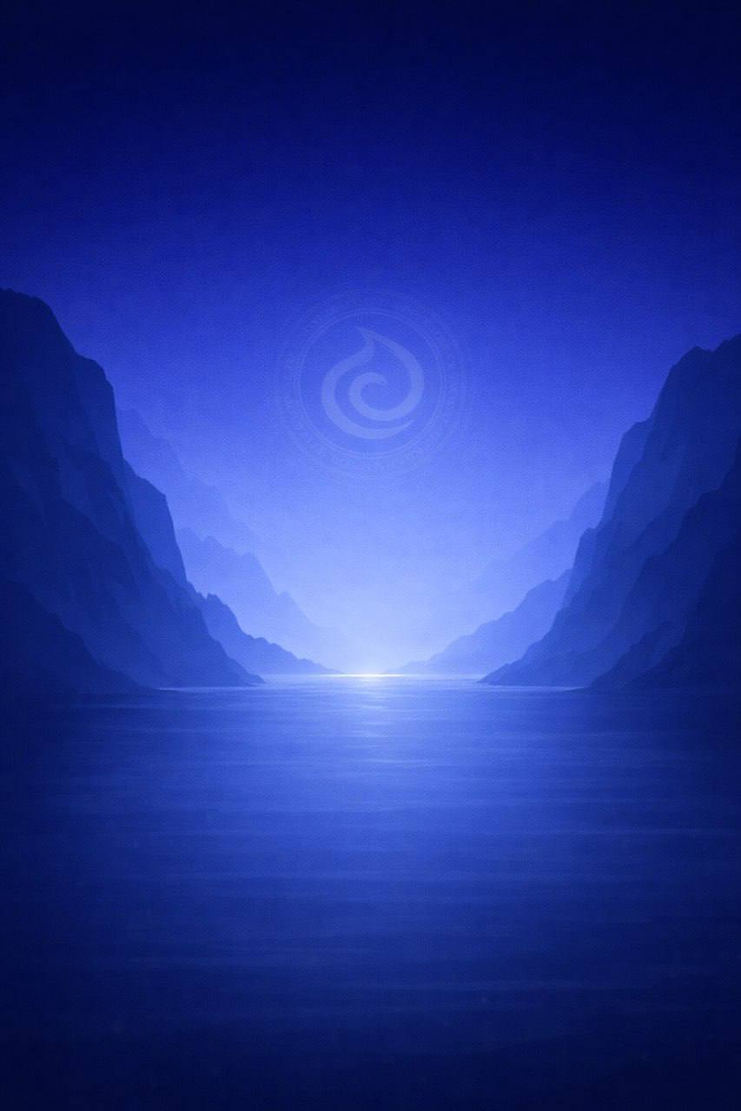
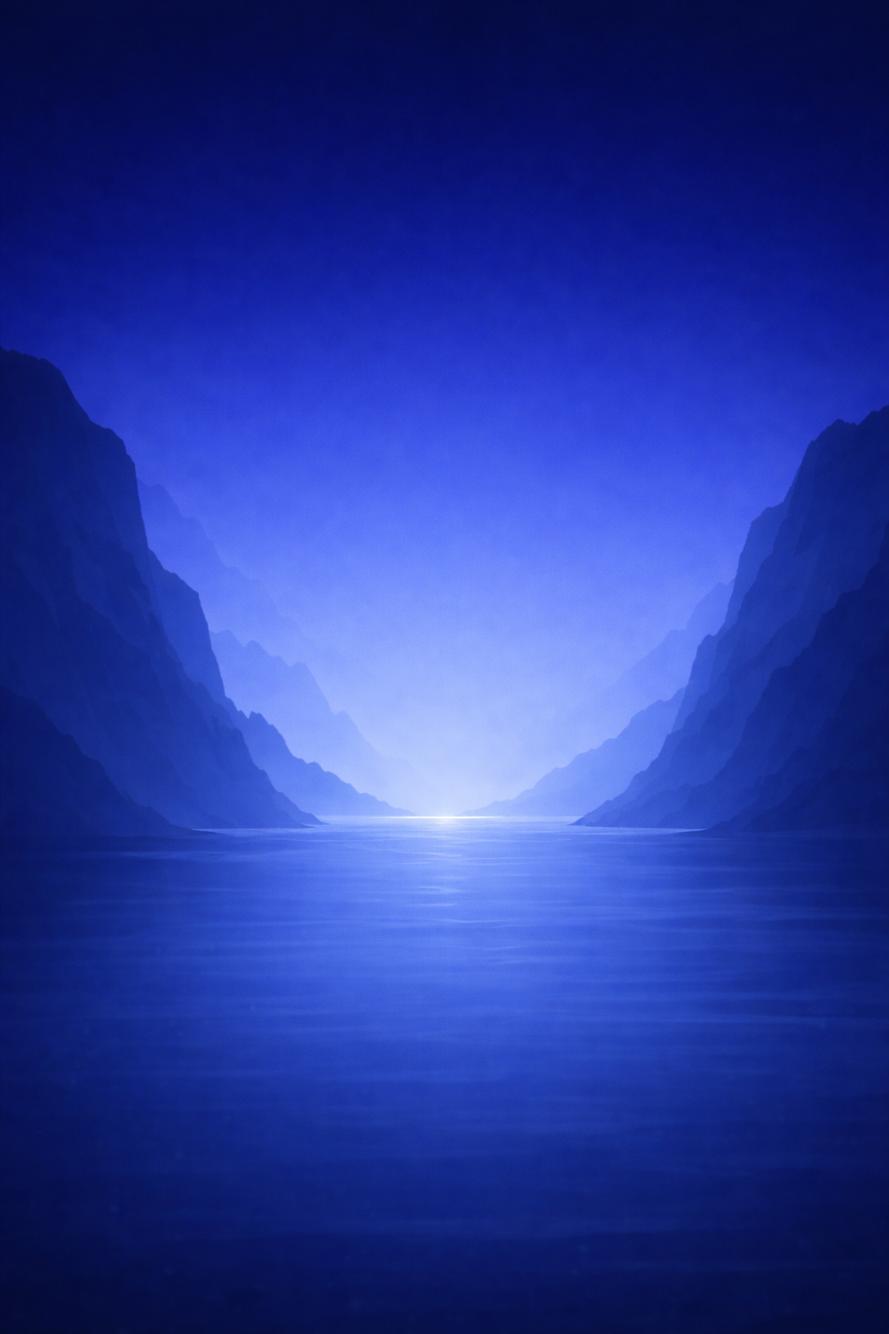
test

diff --git a/bundle.js b/bundle.js
@@ -212,7 +212,7 @@ and a big time boost.`,illustrationHtml:aa,onEnter:e=>ca(e)}];function jo(e={}){
           <span class="count max-cascade">${at.maxCascade>0?"max \xD7"+at.maxCascade:""}</span>
         </div>
         ${x}
-      `;Os.innerHTML=$}}function os(){se.textContent=`Score: ${Mt}`}function Hs(){qt.textContent=`Time: ${Pn(F)}`}function ro(){let t=Math.max(0,(s-y)/u()),i=Math.floor(t/60),g=Math.floor(t%60);Zt.textContent=`Left: ${i}:${g.toString().padStart(2,"0")}`,t<30?Zt.classList.add("warning"):Zt.classList.remove("warning")}function Ii(){h(fe),Un(),y=0,v=0,E=_=0,w=0,mt.start(),at=mt.stats,Mt=0,k=performance.now(),F=0,ie=0,it=0,j="playing",D=null,He()?M.reset():(M.deactivate(),Object.keys(M.charges).forEach(t=>{M.charges[t]=0}),Y()),ye.reset(),hs(),yn=[],Fn=[],ln=!1,Sn=!1,Hn=!1,tn=0,dn=0,un=0,vn.reset(),Y(),os(),Hs(),ro(),Ds(),uo(),Gn.drawNextPreview(re,D),ss(),T.getSettings().musicEnabled&&T.startGameMusic()}function Fs(){mt.gameOver(),j="gameover",Ut=null,Ae=!1,Ye=0,nn=0;let t=wt.saveHighscore(Mt,F,fe);T.stopMusic(),T.play("gameover"),Hs(),ss(),t&&Mt>0&&setTimeout(()=>{J("\u{1F3C6} NEW RECORD!","score")},500)}function wi(t){for(let g=0;g<50;g++){let x=t.map(()=>1+(Math.random()*4|0));if(!Pi(t,x))return x}return t.map((g,x)=>1+x%4)}let Pi=ui;function lo(t){let i=t.cells.map(x=>({x:x.x,y:x.y})),g=wi(i);return{name:t.name,cells:i,colors:g}}function uo(){if(!D){let $=je[Math.random()*je.length|0];D=lo($)}Ut=D;let t=je[Math.random()*je.length|0];D=lo(t),Gn.drawNextPreview(re,D);let i=1/0,g=-1/0;for(let $ of Ut.cells)$.x<i&&(i=$.x),$.x>g&&(g=$.x);let x=(i+g)/2;for(let $ of Ut.cells)$.x=$.x-Math.round(x);Le=s+3,Xe=0,Ae=!1,Ye=0,nn=0,bs(Math.floor(Le))||Fs()}function fo(){return di(ht,s,a)}function ki(t){if(t.length===0)return;let i=[];for(let zt of t)for(let Se=0;Se<a;Se++)i.push({y:zt,s:Se,color:ht[zt][Se],isLine:!1});Fn=t,yn=i,es=performance.now(),ln=!0,Hn=!0,Sn=!1;let g=t.length;at.rings+=g,at.maxRing=Math.max(at.maxRing,g);let x=ns(de,g-1),$=Math.round(St*g*x),lt=pe*g;if(dn=$,tn=lt*u(),He()){for(let[zt,Se]of Object.entries(me))if(Se>0){let Fe=Se*g;M.addCharges(zt,Fe);let qe=Math.floor(a/2),Ce=t[0],Ee=Ns(Ce,qe),Jt=G[zt];if(Jt)for(let Bt=0;Bt<Fe;Bt++)setTimeout(()=>{Kt.spawnMagicOrb(zt,Ee.x,Ee.y,Jt,()=>{M.onChargeArrive(zt)})},Bt*100)}}T.play("ring");let Ct=`RING \xD7${g}`;J(Ct,"ring"),setTimeout(()=>J(`+${$}`,"score"),150),setTimeout(()=>J(`+${lt}s`,"time"),300)}function Oi(){let t=[...Fn].sort((i,g)=>g-i);for(let i of t){for(let g=i;g<s-1;g++)ht[g].set(ht[g+1]);ht[s-1].fill(0)}if(tn>0){v+=tn;let i=tn/u();Gn.spawnBonusBubbles(i)}mt.addScore(dn),Mt+=dn,os(),fe==="30_24"&&Fn.length>0&&(m=wt.addHighTowerRings(Fn.length)),yn=[],Fn=[],ln=!1,Hn=!1,tn=0,dn=0,Ss()}function Sa(){return fo().length}function Di(){if(!Ut)return;let t=Ms();E=t,_=t,w=0;let i=!1;for(let g=0;g<Ut.cells.length;g++){let x=Ut.cells[g],$=Ut.colors[g],lt=Math.floor(Le)+x.y,Ct=Es(t+x.x);lt>=s&&(i=!0),lt>=0&&lt<s&&(ht[lt][Ct]=$)}if(i){Fs();return}mt.addScore(It),Mt+=It,os(),J(`+${It}`,"score"),T.playRandom("drop"),Ut=null,un=0,_i()}function Ni(){return li(ht,s,a)}function Hi(){if(!Ut)return!1;let t=Math.floor(Le)-1;return bs(t)?(Le=t,Ae=!1,Ye=0,nn=0,!0):(Ae=!0,!1)}n.addEventListener("pointerdown",t=>{if(Vt.state!=="playing")return;t.preventDefault?.();let i=n.getBoundingClientRect(),g=t.clientX-i.left,x=t.clientY-i.top;B.handlePointerDown(t,{onMagicTap:He()?()=>vn.handleTap(g,x)?!0:Vt.applyCommand("magic_shoot",{x:g,y:x}):null,onDoubleTap:()=>Vt.applyCommand("rotate_piece")},_)||(w=0)},{passive:!1}),n.addEventListener("pointermove",t=>{if(Vt.state!=="playing"||!B.dragging)return;t.preventDefault?.();let i=B.handlePointerMove(t,{canRotateTo:(g,x)=>Vt.canRotateTo(g,x),onDrop:()=>Vt.applyCommand("move_down"),onGroundedMove:()=>Vt.onGroundedMove(),onRotateStep:()=>Ie.trigger("tower_rotate")},Vt.pieceY,Vt.isGrounded);i&&Vt.setRotation(i.targetRot)},{passive:!1}),n.addEventListener("pointerup",t=>{Vt.state==="playing"&&B.handlePointerUp(t,{onSingleTap:()=>Vt.applyCommand("rotate_piece")})},{passive:!1}),n.addEventListener("pointercancel",t=>{B.handlePointerUp(t)},{passive:!1}),n.addEventListener("pointerleave",t=>{B.dragging&&B.handlePointerUp(t)},{passive:!1}),kn.addEventListener("click",()=>{Vt.state==="playing"&&Vt.applyCommand("rotate_piece")});let Ts=e.dropBtn,xs=null;function Fi(){Vt.state==="playing"&&(Vt.applyCommand("move_down"),xs=setInterval(()=>{if(Vt.state!=="playing"){_s();return}Vt.applyCommand("move_down")},Ft))}function _s(){xs&&(clearInterval(xs),xs=null)}Ts.addEventListener("pointerdown",t=>{t.preventDefault(),Fi()}),Ts.addEventListener("pointerup",_s),Ts.addEventListener("pointerleave",_s),Ts.addEventListener("pointercancel",_s);for(let[t,i]of Object.entries(G))i.addEventListener("click",()=>{Vt.state==="playing"&&He()&&Vt.applyCommand("select_magic",{element:t})});b&&b.addEventListener("click",()=>{if(Vt.state!=="playing"||!ps()||!He())return;let t=M.active??be;if(!t)return;let i=vt[t];!i||!ce(i)||(ye.selectSpell(i),M.active&&(be=M.active,ge=!0,M.deactivate()),vn.handleSpellButtonClick())});let Gs=e.soundsToggle,$s=e.musicToggle;function Rn(){let t=T.getSettings();t.soundsEnabled?Gs.classList.add("active"):Gs.classList.remove("active"),t.musicEnabled?$s.classList.add("active"):$s.classList.remove("active");for(let i=0;i<=4;i++){let g=e.soundVolBtns[i],x=e.musicVolBtns[i];g&&g.classList.toggle("active",t.soundVolume===i),x&&x.classList.toggle("active",t.musicVolume===i)}}let go=e.tabBtns,Gi=e.tabContents;go.forEach(t=>{t.addEventListener("click",()=>{let i=t.dataset.tab;go.forEach(g=>g.classList.remove("active")),Gi.forEach(g=>g.classList.remove("active")),t.classList.add("active"),Vo(i).classList.add("active"),i==="sounds"&&Rn()})});let mo=/iPad|iPhone|iPod/.test(navigator.userAgent)||navigator.platform==="MacIntel"&&navigator.maxTouchPoints>1,po=window.navigator.standalone===!0||window.matchMedia("(display-mode: standalone)").matches,$i=e.iosHint,Ui=e.standaloneBadge;function ho(){let t=document.fullscreenElement||document.webkitFullscreenElement;Je.textContent=t?"Disable":"Enable"}mo&&(po?(Ui.style.display="block",Je.style.display="none"):($i.style.display="block",Je.textContent="Not supported",Je.style.opacity="0.5",Je.style.cursor="default")),Je.addEventListener("click",()=>{if(mo&&!po)return;if(document.fullscreenElement||document.webkitFullscreenElement)document.exitFullscreen?document.exitFullscreen():document.webkitExitFullscreen&&document.webkitExitFullscreen();else{let i=document.documentElement;i.requestFullscreen?i.requestFullscreen():i.webkitRequestFullscreen&&i.webkitRequestFullscreen()}}),document.addEventListener("fullscreenchange",()=>{ho();let t=document.fullscreenElement||document.webkitFullscreenElement;document.documentElement.classList.toggle("is-fullscreen",!!t)}),document.addEventListener("webkitfullscreenchange",()=>{ho();let t=document.fullscreenElement||document.webkitFullscreenElement;document.documentElement.classList.toggle("is-fullscreen",!!t)});let Rs=e.invertSwipeToggle,En=e.hapticsToggle;ot.invertSwipe&&Rs.classList.add("active"),En&&(Ie.supports()?ot.hapticsEnabled&&En.classList.add("active"):(En.classList.add("disabled"),En.classList.remove("active"),ot.hapticsEnabled=!1,Ie.setEnabled(!1),wt.saveGameSettings(ot))),Rs.addEventListener("click",()=>{Rs.classList.toggle("active");let t=Rs.classList.contains("active");B.rotDir=t?-1:1,ot.invertSwipe=t,wt.saveGameSettings(ot)}),En&&En.addEventListener("click",()=>{if(En.classList.contains("disabled"))return;En.classList.toggle("active");let t=En.classList.contains("active");ot.hapticsEnabled=t,wt.saveGameSettings(ot),Ie.setEnabled(t)});let is=e.showControlsToggle,Xi=e.controlsRight;function vo(t){Xi.style.display=t?"":"none",$t=t}$t?is.classList.add("active"):is.classList.remove("active"),vo($t),is.addEventListener("click",()=>{is.classList.toggle("active");let t=is.classList.contains("active");vo(t),ot.showControls=t,wt.saveGameSettings(ot)});let Ls=e.tapRotateToggle;Ln&&Ls.classList.add("active"),B.tapRotateEnabled=Ln,Ls.addEventListener("click",()=>{Ls.classList.toggle("active");let t=Ls.classList.contains("active");Ln=t,B.tapRotateEnabled=t,ot.tapRotate=t,wt.saveGameSettings(ot)}),Gs.addEventListener("click",()=>{let i=!T.getSettings().soundsEnabled;T.updateSettings({soundsEnabled:i}),Rn(),as()}),$s.addEventListener("click",()=>{let i=!T.getSettings().musicEnabled;T.updateSettings({musicEnabled:i}),Rn(),as(),j!=="paused"&&(i?j==="playing"?T.startGameMusic():T.startMenuMusic():T.stopMusic())});for(let t=0;t<=4;t++){let i=e.soundVolBtns[t];i&&i.addEventListener("click",()=>{T.updateSettings({soundVolume:t}),Rn(),T.play("turn")})}for(let t=0;t<=4;t++){let i=e.musicVolBtns[t];i&&i.addEventListener("click",()=>{T.updateSettings({musicVolume:t}),Rn()})}Rn();function yo(){j==="playing"&&(mt.pause(),it=performance.now(),j="paused",T.musicAudio&&T.musicAudio.pause())}function As(){j==="paused"&&(mt.resume(),ie+=performance.now()-it,it=0,j="playing",Ys=performance.now(),T.getSettings().musicEnabled&&T.startGameMusic())}function as(){let t=T.getSettings();ve.textContent=t.soundsEnabled?"\u{1F50A}":"\u{1F507}",ve.classList.toggle("off",!t.soundsEnabled),We.textContent=t.musicEnabled?"\u{1F3B5}":"\u{1F507}",We.classList.toggle("off",!t.musicEnabled)}function Yi(){we.classList.remove("hidden"),ae.classList.add("hidden");let t=wt.loadHighscore(fe);if(Cn.textContent=t.score?t.score.toLocaleString():"0",Ve.textContent=t.time?Ps(t.time):"0:00",Bn.textContent=fe==="30_24"?"High Tower":"Quick Tower",ke.textContent=Mt.toLocaleString(),Ze.textContent=Ps(F),gn.textContent=fe==="30_24"?"High Tower":"Quick Tower",as(),Co){let i=fe==="30_24";Co.style.display=i?"":"none",i&&zs()}}function cs(){we.classList.add("hidden"),ae.classList.remove("hidden")}ae.addEventListener("click",()=>{T.play("select"),yo(),Yi()}),Mn.addEventListener("click",()=>{T.play("select"),cs(),As()});let Us=null;function So(t,i){rs.textContent=t,Us=i,mn.classList.remove("hidden")}function Eo(){mn.classList.add("hidden"),Us=null}Xn.addEventListener("click",()=>{Eo()}),Tn.addEventListener("click",()=>{let t=Us;Eo(),t&&t()}),bn.addEventListener("click",()=>{T.play("select"),So("Restart game?",()=>{cs(),Vt.applyCommand("start_game")})}),Pe.addEventListener("click",()=>{T.play("select"),So("Exit to menu?",()=>{cs(),ae.classList.add("hidden"),j="intro",mt.reset(),T.stopMusic(),T.getSettings().musicEnabled&&T.startMenuMusic(),ss()})}),fn.addEventListener("click",()=>{cn.classList.remove("hidden")}),ve.addEventListener("click",()=>{let t=T.getSettings();T.updateSettings({soundsEnabled:!t.soundsEnabled}),as(),Rn()}),We.addEventListener("click",()=>{let i=!T.getSettings().musicEnabled;T.updateSettings({musicEnabled:i}),as(),Rn()}),we.addEventListener("click",t=>{t.target===we&&(cs(),As())}),document.addEventListener("keydown",t=>{j==="paused"&&!we.classList.contains("hidden")&&(t.key==="Escape"||t.key.toLowerCase()==="x")&&(cs(),As())}),Yn.addEventListener("click",()=>{cn.classList.add("hidden")}),cn.addEventListener("click",t=>{t.target===cn&&cn.classList.add("hidden")});let Xs=!1;document.addEventListener("visibilitychange",()=>{document.hidden?j==="playing"&&(yo(),Xs=!0):Xs&&j==="paused"&&(As(),Xs=!1)});let Vt=fi({getN:()=>a,getH:()=>s,FALL_INTERVAL:Xt,LOCK_DELAY_SEC:Nt,getKillRate:u,MATCH_HIGHLIGHT_SEC:V,MAGIC_SHRINK_SEC:nt,RING_HIGHLIGHT_SEC:Gt,getState:()=>({gameState:j,score:Mt,elapsedMs:F,startTime:k,totalPausedMs:ie,stats:at,activePiece:Ut,pieceY:Le,targetRot:_,rotFloat:E,rotVel:w,isGrounded:Ae,isHighlighting:ln,isMagicAnimation:Sn,isRingAnimation:Hn,highlightStartTime:es,killLevel:y,grid:ht,fallTimer:Xe,lockTimer:Ye}),setState:t=>{"elapsedMs"in t&&(F=t.elapsedMs),"killLevel"in t&&(y=t.killLevel),"fallTimer"in t&&(Xe=t.fallTimer),"lockTimer"in t&&(Ye=t.lockTimer),"targetRot"in t&&(_=t.targetRot),"rotFloat"in t&&(E=t.rotFloat),"rotVel"in t&&(w=t.rotVel)},funcs:{startGame:Ii,endGame:Fs,rotatePieceByDir:Li,tryMoveDown:Hi,canPlaceAtRot:ao,maybeResetLockDelay:co,shootMagic:Mi,selectMagic:Q,updateGroundedState:Bi,lockPiece:Di,finishHighlight:Ri,finishRingHighlight:Oi},ui:{updateTimeHud:Hs,updateRemainingHud:ro}}),Gn=gi({canvas:n,canvasCtx:l,getN:()=>a,getH:()=>s,TOP_PAD_PX:p,BOTTOM_PAD_PX:C,SIDE_MARGIN_PX:P,MAX_RADIUS_X:H,RADIUS_X_FACTOR:q,ANG_OFFSET:c,MATCH_HIGHLIGHT_SEC:V,MATCH_SHRINK_PHASE:ne,MAGIC_SHRINK_SEC:nt,RING_HIGHLIGHT_SEC:Gt,LOCK_DELAY_SEC:Nt,getKillRate:u,ELEMENT_COLORS:ct,ELEMENT_TO_COLOR:Rt,BLOCK_COLOR_FRONT:pt,BLOCK_COLOR_BACK:Dt,ACTIVE_COLOR_FRONT:le,GHOST_COLOR_FILL:ee,GHOST_COLOR_STROKE:_t,GHOST_STROKE_WIDTH:jt,MAGIC_DIM_DOT_ALPHA:dt,MAGIC_DIM_DOT_SCALE:W,MAGIC_TARGET_DOT_SCALE:oe,getState:()=>({gameState:j,grid:ht,activePiece:Ut,pieceY:Le,rotFloat:E,killLevel:y,isHighlighting:ln,highlightedCells:yn,highlightStartTime:es,isMagicAnimation:Sn,isRingAnimation:Hn,isGrounded:Ae,lockTimer:Ye,spellState:vn.getRenderState()}),getVisualSettings:()=>({waterBubbles:gt,waterColor:xt,backgroundImageEnabled:Et,backgroundColor:R,backgroundImagePaths:Et?["src/img/bg_water.png","img/bg_water.png"]:[]}),funcs:{snappedRot:Ms,computeGhostY:Ai,normSector:Es,playImpact:()=>T.play("impact"),getMagicTargetColor:()=>He()&&M.canUse()?Rt[M.active]:null,getTransmuteAnimState:t=>vn.getTransmuteAnimState(t),getLightningAnimState:t=>vn.getLightningAnimState(t),getFireAnimState:t=>vn.getFireAnimState(t)}}),Ys=performance.now();function Mo(t){let i=Math.min(.05,Math.max(.001,(t-Ys)/1e3));if(Ys=t,Vt.update(i,t),vn.update(t),v>0){let g=Math.min(v,S*i);y=Math.max(0,y-g),v-=g}E=_,E>1e6&&(E%=a),E<-1e6&&(E%=a),Gn.render(i,t),requestAnimationFrame(Mo)}he.addEventListener("click",()=>{T.play("select"),Vt.applyCommand("start_game")}),_n.addEventListener("click",()=>{T.play("select"),Vt.applyCommand("start_game")});function Wi(){j="intro",mt.reset(),T.stopMusic(),T.getSettings().musicEnabled&&T.startMenuMusic(),ss()}ds.addEventListener("click",()=>{T.play("select"),Wi()}),On.forEach(t=>{t.addEventListener("click",i=>{T.play("select"),On.forEach(x=>x.classList.remove("active")),t.classList.add("active"),fe=t.dataset.mode,hs(),ms();let g=wt.loadHighscore(fe);g.score>0?(wn.textContent=g.score.toLocaleString(),pn.textContent=Pn(g.time)):(wn.textContent="0",pn.textContent="0:00"),he.classList.remove("idlePulse"),clearTimeout(window.__pulseT),window.__pulseT=setTimeout(()=>he.classList.add("idlePulse"),2e3)})});let Ws=document.querySelectorAll(".spell-select-btn"),Vs=document.getElementById("spellDesc"),Vi=document.getElementById("spellProgressFill"),bo=document.getElementById("spellProgressMarkers"),Co=document.getElementById("pauseSpellProgress"),Ki=document.getElementById("pauseSpellProgressFill"),To=document.getElementById("pauseSpellProgressMarkers"),xo=document.getElementById("pauseSpellProgressLabel");function Ks(){return bt.map(t=>At(t)).filter(t=>Number.isFinite(t)).sort((t,i)=>t-i)}function qs(t){return t.length?Math.max(...t):0}function qi(t){let i=Ks(),g=qs(i);return g<=0?"":`${Math.min(t,g)}/${g}`}function _o(t){if(!t)return;t.innerHTML="";let i=Ks(),g=qs(i);i.forEach(x=>{let $=document.createElement("span");$.className="marker",$.dataset.threshold=x;let lt=g>0?x/g*100:0;$.style.left=`${lt}%`,t.appendChild($)})}function Ro(t,i){if(!t)return;let g=zi(i);t.style.width=`${g}%`}function Lo(t,i){if(!t)return;t.querySelectorAll(".marker").forEach(x=>{let $=parseInt(x.dataset.threshold,10)||0;x.classList.toggle("reached",i>=$)})}function zi(t){let i=Ks(),g=qs(i);return t<=0||g<=0?0:t>=g?100:t/g*100}function Ao(t){if(!Vs)return;let i=At(t),g=ye.getDescription(t);i===0||m>=i?Vs.innerHTML=g:Vs.innerHTML=`${g} <span class="spell-progress-text">${m}/${i}</span>`}function zs(){m=wt.loadHighTowerRings(),Ws.forEach(i=>{let g=i.dataset.spell,x=At(g),$=m>=x;i.classList.toggle("locked",!$);let lt=i.querySelector(".spell-lock");lt&&(lt.style.display=$?"none":"")}),Ro(Vi,m),Ro(Ki,m),Lo(bo,m),Lo(To,m),xo&&(xo.textContent=qi(m));let t=document.querySelector(".spell-select-btn.active");t&&Ao(t.dataset.spell)}_o(bo),_o(To),zs(),Ws.forEach(t=>{t.addEventListener("click",i=>{i.stopPropagation();let g=document.querySelector('.mode-btn[data-mode="30_24"]');if(g&&!g.classList.contains("active")){On.forEach(zt=>zt.classList.remove("active")),g.classList.add("active"),fe="30_24",hs(),ms();let Ct=wt.loadHighscore(fe);Ct.score>0?(wn.textContent=Ct.score.toLocaleString(),pn.textContent=Pn(Ct.time)):(wn.textContent="0",pn.textContent="0:00")}let x=t.dataset.spell,$=At(x),lt=m>=$;Ao(x),lt&&(Ws.forEach(Ct=>Ct.classList.remove("active")),t.classList.add("active"),ye.selectSpell(x),Zn(M.active))})}),us.addEventListener("click",()=>{let t=wt.loadHighscore("30_24"),i=wt.loadHighscore("25_20"),g=`Records
+      `;Os.innerHTML=$}}function os(){se.textContent=`Score: ${Mt}`}function Hs(){qt.textContent=`Time: ${Pn(F)}`}function ro(){let t=Math.max(0,(s-y)/u()),i=Math.floor(t/60),g=Math.floor(t%60);Zt.textContent=`Left: ${i}:${g.toString().padStart(2,"0")}`,t<30?Zt.classList.add("warning"):Zt.classList.remove("warning")}function Ii(){h(fe),Un(),y=0,v=0,E=_=0,w=0,mt.start(),at=mt.stats,Mt=0,k=performance.now(),F=0,ie=0,it=0,j="playing",D=null,He()?M.reset():(M.deactivate(),Object.keys(M.charges).forEach(t=>{M.charges[t]=0}),Y()),ye.reset(),hs(),yn=[],Fn=[],ln=!1,Sn=!1,Hn=!1,tn=0,dn=0,un=0,vn.reset(),Y(),os(),Hs(),ro(),Ds(),uo(),Gn.drawNextPreview(re,D),ss(),T.getSettings().musicEnabled&&T.startGameMusic()}function Fs(){mt.gameOver(),j="gameover",Ut=null,Ae=!1,Ye=0,nn=0;let t=wt.saveHighscore(Mt,F,fe);T.stopMusic(),T.play("gameover"),Hs(),ss(),t&&Mt>0&&setTimeout(()=>{J("\u{1F3C6} NEW RECORD!","score")},500)}function wi(t){for(let g=0;g<50;g++){let x=t.map(()=>1+(Math.random()*4|0));if(!Pi(t,x))return x}return t.map((g,x)=>1+x%4)}let Pi=ui;function lo(t){let i=t.cells.map(x=>({x:x.x,y:x.y})),g=wi(i);return{name:t.name,cells:i,colors:g}}function uo(){if(!D){let $=je[Math.random()*je.length|0];D=lo($)}Ut=D;let t=je[Math.random()*je.length|0];D=lo(t),Gn.drawNextPreview(re,D);let i=1/0,g=-1/0;for(let $ of Ut.cells)$.x<i&&(i=$.x),$.x>g&&(g=$.x);let x=(i+g)/2;for(let $ of Ut.cells)$.x=$.x-Math.round(x);Le=s+3,Xe=0,Ae=!1,Ye=0,nn=0,bs(Math.floor(Le))||Fs()}function fo(){return di(ht,s,a)}function ki(t){if(t.length===0)return;let i=[];for(let zt of t)for(let Se=0;Se<a;Se++)i.push({y:zt,s:Se,color:ht[zt][Se],isLine:!1});Fn=t,yn=i,es=performance.now(),ln=!0,Hn=!0,Sn=!1;let g=t.length;at.rings+=g,at.maxRing=Math.max(at.maxRing,g);let x=ns(de,g-1),$=Math.round(St*g*x),lt=pe*g;if(dn=$,tn=lt*u(),He()){for(let[zt,Se]of Object.entries(me))if(Se>0){let Fe=Se*g;M.addCharges(zt,Fe);let qe=Math.floor(a/2),Ce=t[0],Ee=Ns(Ce,qe),Jt=G[zt];if(Jt)for(let Bt=0;Bt<Fe;Bt++)setTimeout(()=>{Kt.spawnMagicOrb(zt,Ee.x,Ee.y,Jt,()=>{M.onChargeArrive(zt)})},Bt*100)}}T.play("ring");let Ct=`RING \xD7${g}`;J(Ct,"ring"),setTimeout(()=>J(`+${$}`,"score"),150),setTimeout(()=>J(`+${lt}s`,"time"),300)}function Oi(){let t=[...Fn].sort((i,g)=>g-i);for(let i of t){for(let g=i;g<s-1;g++)ht[g].set(ht[g+1]);ht[s-1].fill(0)}if(tn>0){v+=tn;let i=tn/u();Gn.spawnBonusBubbles(i)}mt.addScore(dn),Mt+=dn,os(),fe==="30_24"&&Fn.length>0&&(m=wt.addHighTowerRings(Fn.length)),yn=[],Fn=[],ln=!1,Hn=!1,tn=0,dn=0,Ss()}function Sa(){return fo().length}function Di(){if(!Ut)return;let t=Ms();E=t,_=t,w=0;let i=!1;for(let g=0;g<Ut.cells.length;g++){let x=Ut.cells[g],$=Ut.colors[g],lt=Math.floor(Le)+x.y,Ct=Es(t+x.x);lt>=s&&(i=!0),lt>=0&&lt<s&&(ht[lt][Ct]=$)}if(i){Fs();return}mt.addScore(It),Mt+=It,os(),J(`+${It}`,"score"),T.playRandom("drop"),Ut=null,un=0,_i()}function Ni(){return li(ht,s,a)}function Hi(){if(!Ut)return!1;let t=Math.floor(Le)-1;return bs(t)?(Le=t,Ae=!1,Ye=0,nn=0,!0):(Ae=!0,!1)}n.addEventListener("pointerdown",t=>{if(Vt.state!=="playing")return;t.preventDefault?.();let i=n.getBoundingClientRect(),g=t.clientX-i.left,x=t.clientY-i.top;B.handlePointerDown(t,{onMagicTap:He()?()=>vn.handleTap(g,x)?!0:Vt.applyCommand("magic_shoot",{x:g,y:x}):null,onDoubleTap:()=>Vt.applyCommand("rotate_piece")},_)||(w=0)},{passive:!1}),n.addEventListener("pointermove",t=>{if(Vt.state!=="playing"||!B.dragging)return;t.preventDefault?.();let i=B.handlePointerMove(t,{canRotateTo:(g,x)=>Vt.canRotateTo(g,x),onDrop:()=>Vt.applyCommand("move_down"),onGroundedMove:()=>Vt.onGroundedMove(),onRotateStep:()=>Ie.trigger("tower_rotate")},Vt.pieceY,Vt.isGrounded);i&&Vt.setRotation(i.targetRot)},{passive:!1}),n.addEventListener("pointerup",t=>{Vt.state==="playing"&&B.handlePointerUp(t,{onSingleTap:()=>Vt.applyCommand("rotate_piece")})},{passive:!1}),n.addEventListener("pointercancel",t=>{B.handlePointerUp(t)},{passive:!1}),n.addEventListener("pointerleave",t=>{B.dragging&&B.handlePointerUp(t)},{passive:!1}),kn.addEventListener("click",()=>{Vt.state==="playing"&&Vt.applyCommand("rotate_piece")});let Ts=e.dropBtn,xs=null;function Fi(){Vt.state==="playing"&&(Vt.applyCommand("move_down"),xs=setInterval(()=>{if(Vt.state!=="playing"){_s();return}Vt.applyCommand("move_down")},Ft))}function _s(){xs&&(clearInterval(xs),xs=null)}Ts.addEventListener("pointerdown",t=>{t.preventDefault(),Fi()}),Ts.addEventListener("pointerup",_s),Ts.addEventListener("pointerleave",_s),Ts.addEventListener("pointercancel",_s);for(let[t,i]of Object.entries(G))i.addEventListener("click",()=>{Vt.state==="playing"&&He()&&Vt.applyCommand("select_magic",{element:t})});b&&b.addEventListener("click",()=>{if(Vt.state!=="playing"||!ps()||!He())return;let t=M.active??be;if(!t)return;let i=vt[t];!i||!ce(i)||(ye.selectSpell(i),M.active&&(be=M.active,ge=!0,M.deactivate()),vn.handleSpellButtonClick())});let Gs=e.soundsToggle,$s=e.musicToggle;function Rn(){let t=T.getSettings();t.soundsEnabled?Gs.classList.add("active"):Gs.classList.remove("active"),t.musicEnabled?$s.classList.add("active"):$s.classList.remove("active");for(let i=0;i<=4;i++){let g=e.soundVolBtns[i],x=e.musicVolBtns[i];g&&g.classList.toggle("active",t.soundVolume===i),x&&x.classList.toggle("active",t.musicVolume===i)}}let go=e.tabBtns,Gi=e.tabContents;go.forEach(t=>{t.addEventListener("click",()=>{let i=t.dataset.tab;go.forEach(g=>g.classList.remove("active")),Gi.forEach(g=>g.classList.remove("active")),t.classList.add("active"),Vo(i).classList.add("active"),i==="sounds"&&Rn()})});let mo=/iPad|iPhone|iPod/.test(navigator.userAgent)||navigator.platform==="MacIntel"&&navigator.maxTouchPoints>1,po=window.navigator.standalone===!0||window.matchMedia("(display-mode: standalone)").matches,$i=e.iosHint,Ui=e.standaloneBadge;function ho(){let t=document.fullscreenElement||document.webkitFullscreenElement;Je.textContent=t?"Disable":"Enable"}mo&&(po?(Ui.style.display="block",Je.style.display="none"):($i.style.display="block",Je.textContent="Not supported",Je.style.opacity="0.5",Je.style.cursor="default")),Je.addEventListener("click",()=>{if(mo&&!po)return;if(document.fullscreenElement||document.webkitFullscreenElement)document.exitFullscreen?document.exitFullscreen():document.webkitExitFullscreen&&document.webkitExitFullscreen();else{let i=document.documentElement;i.requestFullscreen?i.requestFullscreen():i.webkitRequestFullscreen&&i.webkitRequestFullscreen()}}),document.addEventListener("fullscreenchange",()=>{ho();let t=document.fullscreenElement||document.webkitFullscreenElement;document.documentElement.classList.toggle("is-fullscreen",!!t)}),document.addEventListener("webkitfullscreenchange",()=>{ho();let t=document.fullscreenElement||document.webkitFullscreenElement;document.documentElement.classList.toggle("is-fullscreen",!!t)});let Rs=e.invertSwipeToggle,En=e.hapticsToggle;ot.invertSwipe&&Rs.classList.add("active"),En&&(Ie.supports()?ot.hapticsEnabled&&En.classList.add("active"):(En.classList.add("disabled"),En.classList.remove("active"),ot.hapticsEnabled=!1,Ie.setEnabled(!1),wt.saveGameSettings(ot))),Rs.addEventListener("click",()=>{Rs.classList.toggle("active");let t=Rs.classList.contains("active");B.rotDir=t?-1:1,ot.invertSwipe=t,wt.saveGameSettings(ot)}),En&&En.addEventListener("click",()=>{if(En.classList.contains("disabled"))return;En.classList.toggle("active");let t=En.classList.contains("active");ot.hapticsEnabled=t,wt.saveGameSettings(ot),Ie.setEnabled(t)});let is=e.showControlsToggle,Xi=e.controlsRight;function vo(t){Xi.style.display=t?"":"none",$t=t}$t?is.classList.add("active"):is.classList.remove("active"),vo($t),is.addEventListener("click",()=>{is.classList.toggle("active");let t=is.classList.contains("active");vo(t),ot.showControls=t,wt.saveGameSettings(ot)});let Ls=e.tapRotateToggle;Ln&&Ls.classList.add("active"),B.tapRotateEnabled=Ln,Ls.addEventListener("click",()=>{Ls.classList.toggle("active");let t=Ls.classList.contains("active");Ln=t,B.tapRotateEnabled=t,ot.tapRotate=t,wt.saveGameSettings(ot)}),Gs.addEventListener("click",()=>{let i=!T.getSettings().soundsEnabled;T.updateSettings({soundsEnabled:i}),Rn(),as()}),$s.addEventListener("click",()=>{let i=!T.getSettings().musicEnabled;T.updateSettings({musicEnabled:i}),Rn(),as(),j!=="paused"&&(i?j==="playing"?T.startGameMusic():T.startMenuMusic():T.stopMusic())});for(let t=0;t<=4;t++){let i=e.soundVolBtns[t];i&&i.addEventListener("click",()=>{T.updateSettings({soundVolume:t}),Rn(),T.play("turn")})}for(let t=0;t<=4;t++){let i=e.musicVolBtns[t];i&&i.addEventListener("click",()=>{T.updateSettings({musicVolume:t}),Rn()})}Rn();function yo(){j==="playing"&&(mt.pause(),it=performance.now(),j="paused",T.musicAudio&&T.musicAudio.pause())}function As(){j==="paused"&&(mt.resume(),ie+=performance.now()-it,it=0,j="playing",Ys=performance.now(),T.getSettings().musicEnabled&&T.startGameMusic())}function as(){let t=T.getSettings();ve.textContent=t.soundsEnabled?"\u{1F50A}":"\u{1F507}",ve.classList.toggle("off",!t.soundsEnabled),We.textContent=t.musicEnabled?"\u{1F3B5}":"\u{1F507}",We.classList.toggle("off",!t.musicEnabled)}function Yi(){we.classList.remove("hidden"),ae.classList.add("hidden");let t=wt.loadHighscore(fe);if(Cn.textContent=t.score?t.score.toLocaleString():"0",Ve.textContent=t.time?Ps(t.time):"0:00",Bn.textContent=fe==="30_24"?"High Tower":"Quick Tower",ke.textContent=Mt.toLocaleString(),Ze.textContent=Ps(F),gn.textContent=fe==="30_24"?"High Tower":"Quick Tower",as(),Co){let i=fe==="30_24";Co.style.display=i?"":"none",i&&zs()}}function cs(){we.classList.add("hidden"),ae.classList.remove("hidden")}ae.addEventListener("click",()=>{T.play("select"),yo(),Yi()}),Mn.addEventListener("click",()=>{T.play("select"),cs(),As()});let Us=null;function So(t,i){rs.textContent=t,Us=i,mn.classList.remove("hidden")}function Eo(){mn.classList.add("hidden"),Us=null}Xn.addEventListener("click",()=>{Eo()}),Tn.addEventListener("click",()=>{let t=Us;Eo(),t&&t()}),bn.addEventListener("click",()=>{T.play("select"),So("Restart game?",()=>{cs(),Vt.applyCommand("start_game")})}),Pe.addEventListener("click",()=>{T.play("select"),So("Exit to menu?",()=>{cs(),ae.classList.add("hidden"),j="intro",mt.reset(),T.stopMusic(),T.getSettings().musicEnabled&&T.startMenuMusic(),ss()})}),fn.addEventListener("click",()=>{cn.classList.remove("hidden")}),ve.addEventListener("click",()=>{let t=T.getSettings();T.updateSettings({soundsEnabled:!t.soundsEnabled}),as(),Rn()}),We.addEventListener("click",()=>{let i=!T.getSettings().musicEnabled;T.updateSettings({musicEnabled:i}),as(),Rn()}),we.addEventListener("click",t=>{t.target===we&&(cs(),As())}),document.addEventListener("keydown",t=>{j==="paused"&&!we.classList.contains("hidden")&&(t.key==="Escape"||t.key.toLowerCase()==="x")&&(cs(),As())}),Yn.addEventListener("click",()=>{cn.classList.add("hidden")}),cn.addEventListener("click",t=>{t.target===cn&&cn.classList.add("hidden")});let Xs=!1;document.addEventListener("visibilitychange",()=>{document.hidden?j==="playing"&&(yo(),Xs=!0):Xs&&j==="paused"&&(As(),Xs=!1)});let Vt=fi({getN:()=>a,getH:()=>s,FALL_INTERVAL:Xt,LOCK_DELAY_SEC:Nt,getKillRate:u,MATCH_HIGHLIGHT_SEC:V,MAGIC_SHRINK_SEC:nt,RING_HIGHLIGHT_SEC:Gt,getState:()=>({gameState:j,score:Mt,elapsedMs:F,startTime:k,totalPausedMs:ie,stats:at,activePiece:Ut,pieceY:Le,targetRot:_,rotFloat:E,rotVel:w,isGrounded:Ae,isHighlighting:ln,isMagicAnimation:Sn,isRingAnimation:Hn,highlightStartTime:es,killLevel:y,grid:ht,fallTimer:Xe,lockTimer:Ye}),setState:t=>{"elapsedMs"in t&&(F=t.elapsedMs),"killLevel"in t&&(y=t.killLevel),"fallTimer"in t&&(Xe=t.fallTimer),"lockTimer"in t&&(Ye=t.lockTimer),"targetRot"in t&&(_=t.targetRot),"rotFloat"in t&&(E=t.rotFloat),"rotVel"in t&&(w=t.rotVel)},funcs:{startGame:Ii,endGame:Fs,rotatePieceByDir:Li,tryMoveDown:Hi,canPlaceAtRot:ao,maybeResetLockDelay:co,shootMagic:Mi,selectMagic:Q,updateGroundedState:Bi,lockPiece:Di,finishHighlight:Ri,finishRingHighlight:Oi},ui:{updateTimeHud:Hs,updateRemainingHud:ro}}),Gn=gi({canvas:n,canvasCtx:l,getN:()=>a,getH:()=>s,TOP_PAD_PX:p,BOTTOM_PAD_PX:C,SIDE_MARGIN_PX:P,MAX_RADIUS_X:H,RADIUS_X_FACTOR:q,ANG_OFFSET:c,MATCH_HIGHLIGHT_SEC:V,MATCH_SHRINK_PHASE:ne,MAGIC_SHRINK_SEC:nt,RING_HIGHLIGHT_SEC:Gt,LOCK_DELAY_SEC:Nt,getKillRate:u,ELEMENT_COLORS:ct,ELEMENT_TO_COLOR:Rt,BLOCK_COLOR_FRONT:pt,BLOCK_COLOR_BACK:Dt,ACTIVE_COLOR_FRONT:le,GHOST_COLOR_FILL:ee,GHOST_COLOR_STROKE:_t,GHOST_STROKE_WIDTH:jt,MAGIC_DIM_DOT_ALPHA:dt,MAGIC_DIM_DOT_SCALE:W,MAGIC_TARGET_DOT_SCALE:oe,getState:()=>({gameState:j,grid:ht,activePiece:Ut,pieceY:Le,rotFloat:E,killLevel:y,isHighlighting:ln,highlightedCells:yn,highlightStartTime:es,isMagicAnimation:Sn,isRingAnimation:Hn,isGrounded:Ae,lockTimer:Ye,spellState:vn.getRenderState()}),getVisualSettings:()=>({waterBubbles:gt,waterColor:xt,backgroundImageEnabled:Et,backgroundColor:R,backgroundImagePaths:Et?["src/img/bg_air.png","img/bg_water.png"]:[]}),funcs:{snappedRot:Ms,computeGhostY:Ai,normSector:Es,playImpact:()=>T.play("impact"),getMagicTargetColor:()=>He()&&M.canUse()?Rt[M.active]:null,getTransmuteAnimState:t=>vn.getTransmuteAnimState(t),getLightningAnimState:t=>vn.getLightningAnimState(t),getFireAnimState:t=>vn.getFireAnimState(t)}}),Ys=performance.now();function Mo(t){let i=Math.min(.05,Math.max(.001,(t-Ys)/1e3));if(Ys=t,Vt.update(i,t),vn.update(t),v>0){let g=Math.min(v,S*i);y=Math.max(0,y-g),v-=g}E=_,E>1e6&&(E%=a),E<-1e6&&(E%=a),Gn.render(i,t),requestAnimationFrame(Mo)}he.addEventListener("click",()=>{T.play("select"),Vt.applyCommand("start_game")}),_n.addEventListener("click",()=>{T.play("select"),Vt.applyCommand("start_game")});function Wi(){j="intro",mt.reset(),T.stopMusic(),T.getSettings().musicEnabled&&T.startMenuMusic(),ss()}ds.addEventListener("click",()=>{T.play("select"),Wi()}),On.forEach(t=>{t.addEventListener("click",i=>{T.play("select"),On.forEach(x=>x.classList.remove("active")),t.classList.add("active"),fe=t.dataset.mode,hs(),ms();let g=wt.loadHighscore(fe);g.score>0?(wn.textContent=g.score.toLocaleString(),pn.textContent=Pn(g.time)):(wn.textContent="0",pn.textContent="0:00"),he.classList.remove("idlePulse"),clearTimeout(window.__pulseT),window.__pulseT=setTimeout(()=>he.classList.add("idlePulse"),2e3)})});let Ws=document.querySelectorAll(".spell-select-btn"),Vs=document.getElementById("spellDesc"),Vi=document.getElementById("spellProgressFill"),bo=document.getElementById("spellProgressMarkers"),Co=document.getElementById("pauseSpellProgress"),Ki=document.getElementById("pauseSpellProgressFill"),To=document.getElementById("pauseSpellProgressMarkers"),xo=document.getElementById("pauseSpellProgressLabel");function Ks(){return bt.map(t=>At(t)).filter(t=>Number.isFinite(t)).sort((t,i)=>t-i)}function qs(t){return t.length?Math.max(...t):0}function qi(t){let i=Ks(),g=qs(i);return g<=0?"":`${Math.min(t,g)}/${g}`}function _o(t){if(!t)return;t.innerHTML="";let i=Ks(),g=qs(i);i.forEach(x=>{let $=document.createElement("span");$.className="marker",$.dataset.threshold=x;let lt=g>0?x/g*100:0;$.style.left=`${lt}%`,t.appendChild($)})}function Ro(t,i){if(!t)return;let g=zi(i);t.style.width=`${g}%`}function Lo(t,i){if(!t)return;t.querySelectorAll(".marker").forEach(x=>{let $=parseInt(x.dataset.threshold,10)||0;x.classList.toggle("reached",i>=$)})}function zi(t){let i=Ks(),g=qs(i);return t<=0||g<=0?0:t>=g?100:t/g*100}function Ao(t){if(!Vs)return;let i=At(t),g=ye.getDescription(t);i===0||m>=i?Vs.innerHTML=g:Vs.innerHTML=`${g} <span class="spell-progress-text">${m}/${i}</span>`}function zs(){m=wt.loadHighTowerRings(),Ws.forEach(i=>{let g=i.dataset.spell,x=At(g),$=m>=x;i.classList.toggle("locked",!$);let lt=i.querySelector(".spell-lock");lt&&(lt.style.display=$?"none":"")}),Ro(Vi,m),Ro(Ki,m),Lo(bo,m),Lo(To,m),xo&&(xo.textContent=qi(m));let t=document.querySelector(".spell-select-btn.active");t&&Ao(t.dataset.spell)}_o(bo),_o(To),zs(),Ws.forEach(t=>{t.addEventListener("click",i=>{i.stopPropagation();let g=document.querySelector('.mode-btn[data-mode="30_24"]');if(g&&!g.classList.contains("active")){On.forEach(zt=>zt.classList.remove("active")),g.classList.add("active"),fe="30_24",hs(),ms();let Ct=wt.loadHighscore(fe);Ct.score>0?(wn.textContent=Ct.score.toLocaleString(),pn.textContent=Pn(Ct.time)):(wn.textContent="0",pn.textContent="0:00")}let x=t.dataset.spell,$=At(x),lt=m>=$;Ao(x),lt&&(Ws.forEach(Ct=>Ct.classList.remove("active")),t.classList.add("active"),ye.selectSpell(x),Zn(M.active))})}),us.addEventListener("click",()=>{let t=wt.loadHighscore("30_24"),i=wt.loadHighscore("25_20"),g=`Records
 
 `;g+=`High Tower (30\xD724):
 `,g+=t.score>0?`  Score: ${t.score.toLocaleString()}, Time: ${Pn(t.time)}
